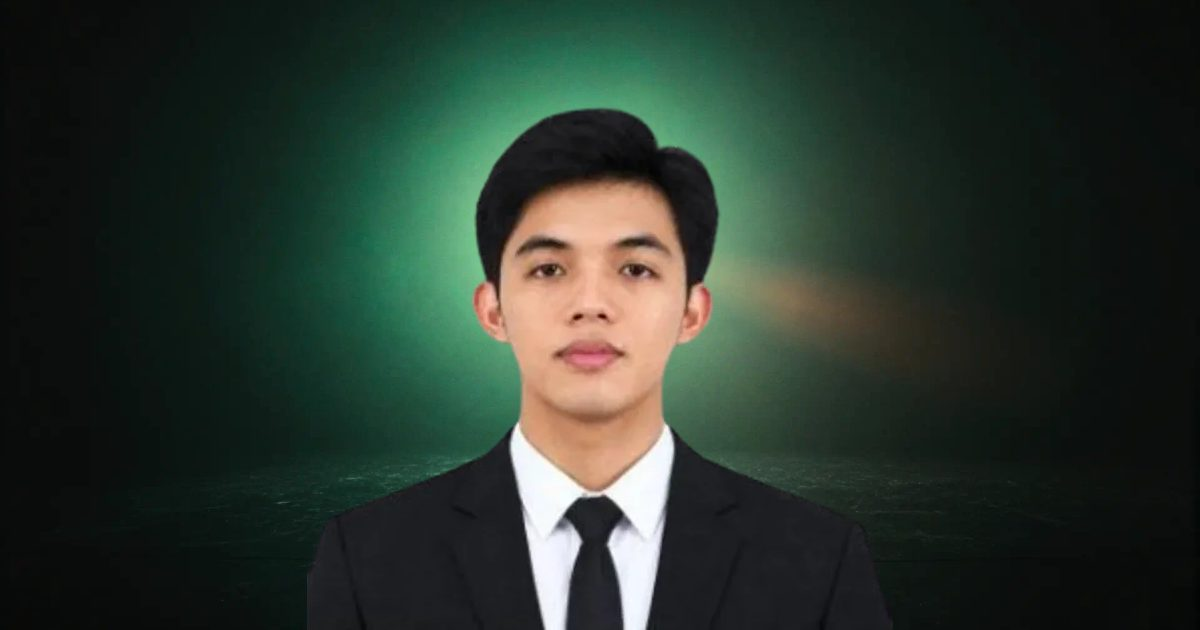
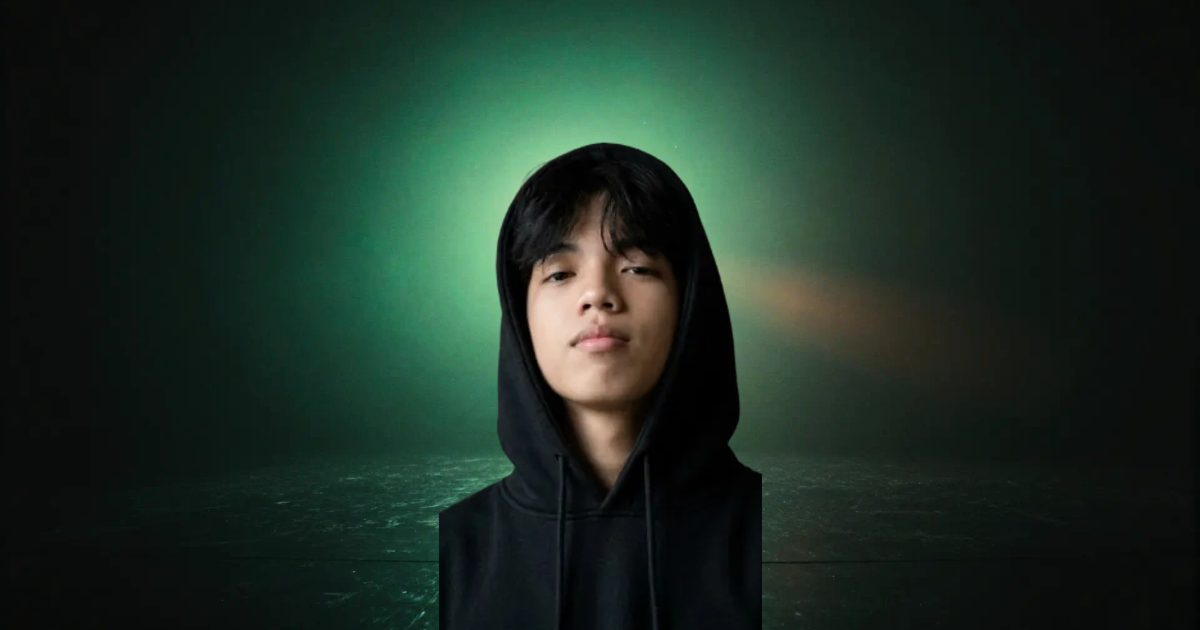
feat(hero): swap portrait to hoodie photo
- retune oval fade for the taller image
- regenerate social share image

Changed region(s): [[0.3083, 0.1508, 0.6783, 1.0], [0.2467, 0.9048, 0.2775, 0.9349]]

diff --git a/app/globals.css b/app/globals.css
@@ -72,7 +72,7 @@ h1, h2, h3, .logo, .wordmark, .stats strong { font-family: var(--font-display), 
 .scene { position: absolute; inset: 0; z-index: 2; }
 .hero-me { position: absolute; z-index: 3; inset: auto 0 0 0; width: fit-content; margin-inline: auto; height: min(80svh, 820px); pointer-events: none; }
 /* oval fade hides the photo's cropped shoulders */
-.hero-me { --fade: radial-gradient(ellipse 50% 72% at 50% 36%, #000 62%, transparent 100%); }
+.hero-me { --fade: radial-gradient(ellipse 58% 66% at 50% 40%, #000 66%, transparent 100%); }
 .hero-me img {
   height: 100%; width: auto; max-width: none;
   -webkit-mask-image: var(--fade); mask-image: var(--fade);

diff --git a/app/page.js b/app/page.js
@@ -74,7 +74,7 @@ export default async function Home() {
         </h1>
         <Scene />
         <div className="hero-me">
-          <img src="/me.webp" alt={`Portrait of ${site.name}`} width="873" height="864" fetchPriority="high" />
+          <img src="/me.webp" alt={`Portrait of ${site.name}`} width="756" height="1356" fetchPriority="high" />
         </div>
         <div className="hero-meta">
           <p className="mono">{site.role}</p>
